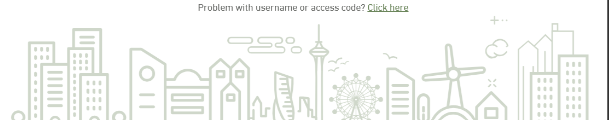
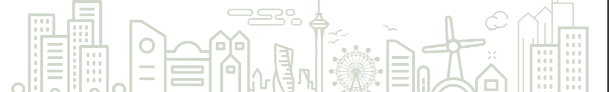
Remove problem text from login page and provide clean architectural skyline background

diff --git a/resources/views/auth/login.blade.php b/resources/views/auth/login.blade.php
@@ -203,20 +203,13 @@
                         <span id="txtLoginBtn">Login</span>
                     </button>
                 </form>
-
-                <!-- Problem link -->
-                <div class="text-center mt-5 text-xs">
-                    <span id="txtProblem">Problem with username or access code?</span> 
-                    <a href="javascript:void(0)" onclick="openHelpModal()" class="text-[#fcba63] underline font-semibold hover:text-[#e4881c]" id="txtClickHere">Click here</a>
-                </div>
-
             </div>
         </div>
     </main>
 
-    <!-- Bottom Area with Skyline Graphic -->
-    <div class="h-24 w-full pointer-events-none relative overflow-hidden">
-        <img src="{{ asset('images/skyline.png') }}" alt="" class="absolute bottom-0 end-0 max-h-20 object-contain opacity-25">
+    <!-- Bottom Ambient Skyline Panorama Background -->
+    <div class="fixed inset-x-0 bottom-0 h-36 pointer-events-none z-0 opacity-20 dark:opacity-30 overflow-hidden"
+         style="background-image: url('{{ asset('images/skyline.png') }}'); background-repeat: repeat-x; background-position: bottom center; background-size: auto 120px;">
     </div>
 
     <!-- Help Modal -->
